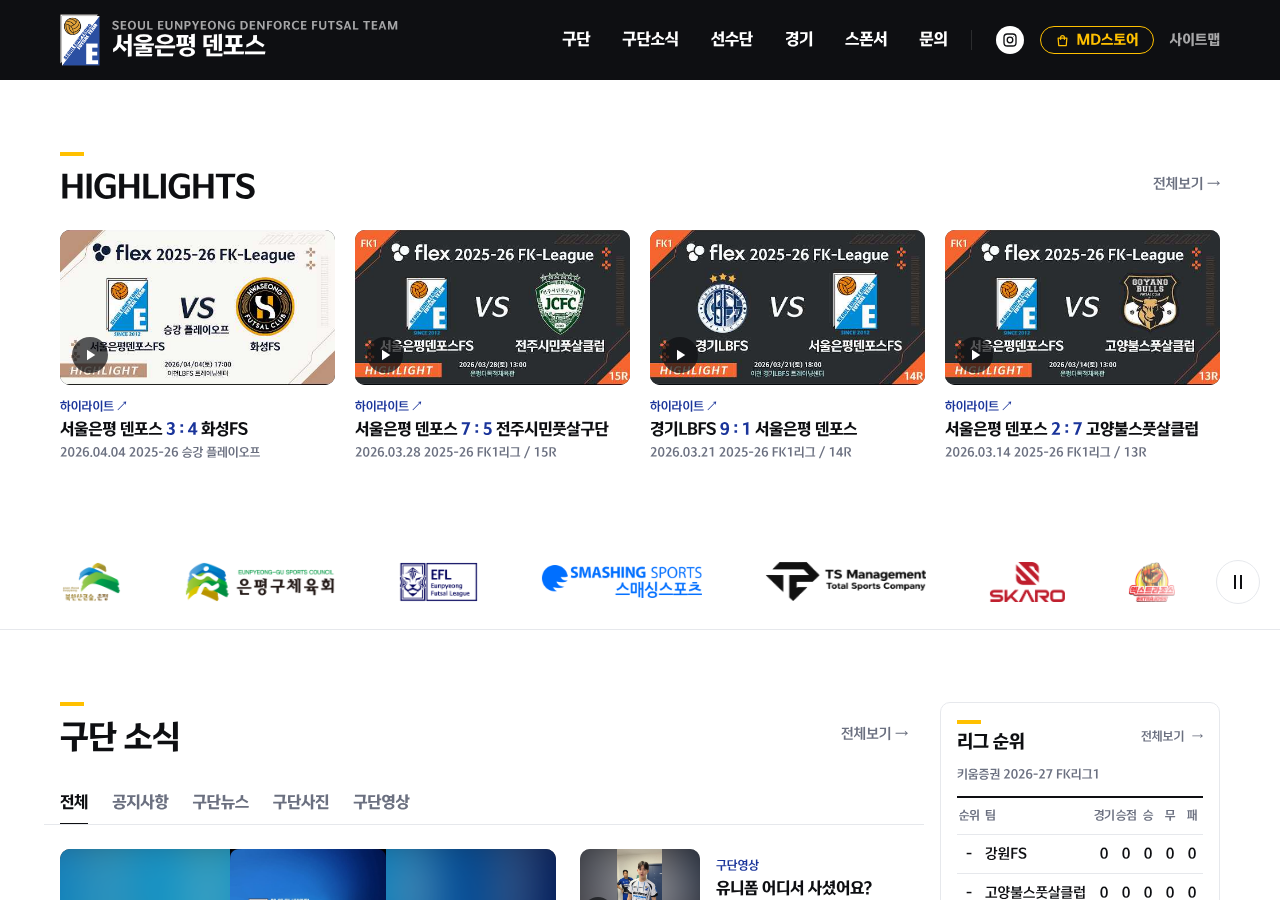
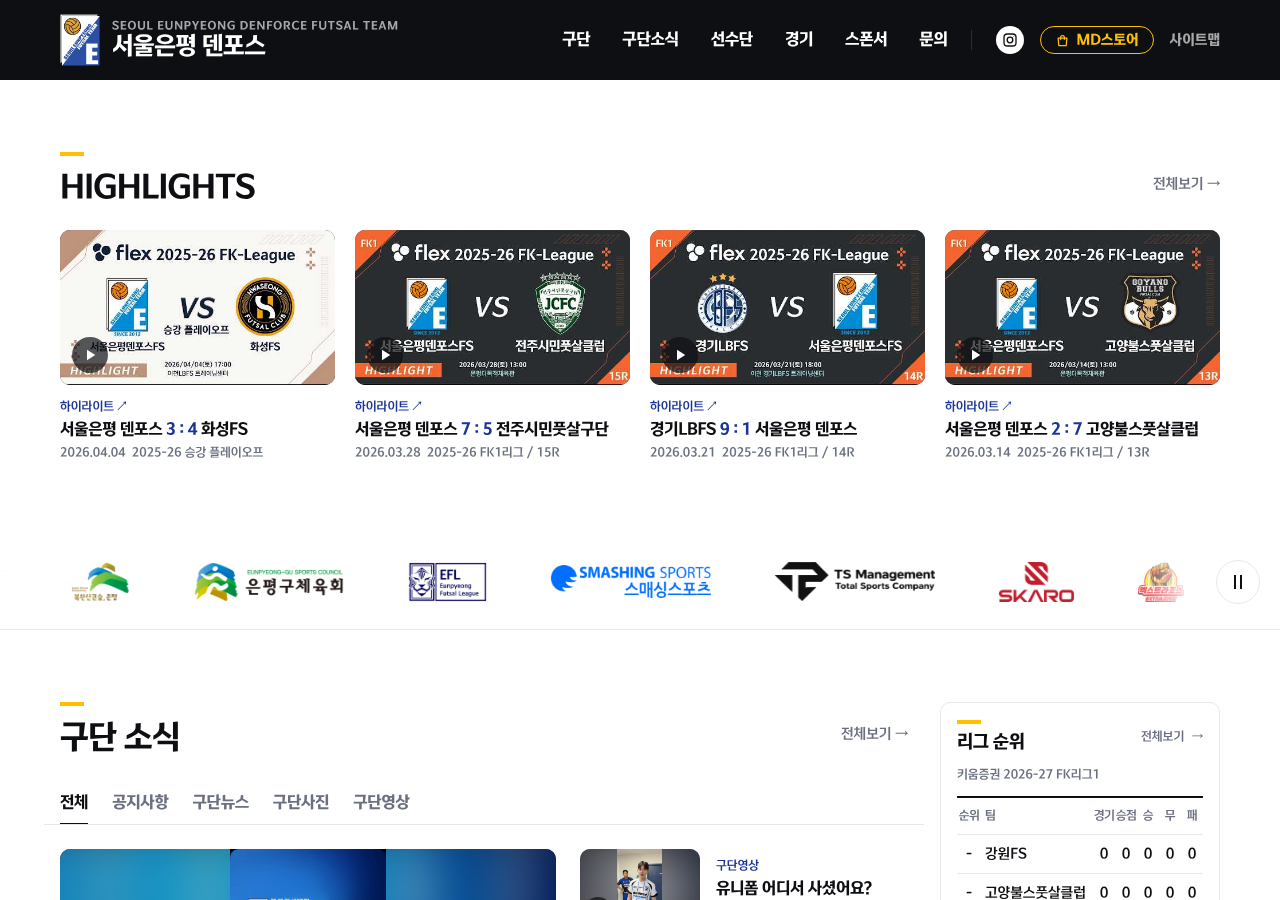
경기 영상 수치표 맞춤: 휴대폰 띠 라벨 옆 LIVE, 하이라이트 제목 2줄, 날짜와 대회 사이 공백 2칸 (D-091, D-092)
Claude-Session: https://claude.ai/code/session_015na33bHmUEDGFhNLp3LnQp

diff --git a/sites/eunpyeong-denforce/src/components/home/NextMatchHero.tsx b/sites/eunpyeong-denforce/src/components/home/NextMatchHero.tsx
@@ -103,8 +103,12 @@ function PhoneStrip({ match, ourName, textured, style }: Props) {
   return (
     <section className={styles.stripWrap} data-surface="dark" aria-labelledby="next-home-match-strip">
       <LiveLink window={live} href="/match/schedule" className={`${styles.card} ${styles.strip} ${textured ? styles.textured : ""}`} style={style}>
-        <span id="next-home-match-strip" role="heading" aria-level={2} className={styles.label}>
-          NEXT HOME MATCH
+        {/* 라벨 오른쪽 LIVE (D-092 L4 (가), 높이 그대로) */}
+        <span className={styles.labelRow}>
+          <span id="next-home-match-strip" role="heading" aria-level={2} className={styles.label}>
+            NEXT HOME MATCH
+          </span>
+          <LiveBadge window={live} />
         </span>
         <CompetitionTag text={matchLabel(match)} surface="dark" />
         <span className={styles.stripTeams}>

diff --git a/sites/eunpyeong-denforce/src/components/news/HighlightCard.tsx b/sites/eunpyeong-denforce/src/components/news/HighlightCard.tsx
@@ -39,7 +39,10 @@ export function HighlightCard({ item }: { item: HighlightItem }) {
           {item.away}
         </strong>
         <span className={styles.meta}>
-          {item.date} {item.competition}
+          {/* 날짜 + 공백 2칸 + 대회/라운드 (디자인 수치표 2ad2066) */}
+          {item.date}
+          {"\u00a0\u00a0"}
+          {item.competition}
         </span>
       </span>
     </a>

diff --git a/sites/eunpyeong-denforce/src/components/news/HighlightCard.module.css b/sites/eunpyeong-denforce/src/components/news/HighlightCard.module.css
@@ -61,6 +61,11 @@
   letter-spacing: -0.02em;
   word-break: keep-all;
   overflow-wrap: anywhere;
+  /* 2줄까지 */
+  display: -webkit-box;
+  -webkit-line-clamp: 2;
+  -webkit-box-orient: vertical;
+  overflow: hidden;
 }
 
 .score {

diff --git a/sites/eunpyeong-denforce/docs/FIGMA_SYNC.md b/sites/eunpyeong-denforce/docs/FIGMA_SYNC.md
@@ -586,3 +586,5 @@
 - 2026-11-14 디자인: tender-keller 병합(진행 기록 충돌 양쪽 유지). 총괄 요청(소유자 "1~3 다 해줘") ② 은평 하이라이트 모아 보기 + ③ 경기 당일 생중계 보기 시안. 새 섹션 283:27104(제목 287:29208 / 287:29210, 설명 287:29209 / 287:29211). ② HighlightCard: 구단영상 VideoCard 짜임 그대로 썸네일만 16:9(radius/m, PlayMark 36 왼쪽 아래 12) + 분류 '하이라이트 ↗' + 제목(대진, 스코어만 color/blue) + 날짜와 대회, 카드 전체 유튜브 새 창, 최신순 4칸(PC 285 사이 space/ml, 휴대폰 280 가로 넘김 사이 space/s). 위치 3안: 안1 구단영상 맨 위 '경기 하이라이트' PC 283:27105 / 휴대폰 283:27295, 안3 경기결과 맨 위 PC 283:27457 / 휴대폰 283:27651, 안2 홈 경기 띠 바로 아래 'HIGHLIGHTS'(인스타 칸과 같은 머리, 오른쪽 전체보기 →) PC 284:28825 / 휴대폰 284:29003. 썸네일은 시안에서 구단 사진으로 대신함. ③ LIVE 배지(color/yellow + 검정 점 6 + LIVE kfa/label black, radius/pill, 깜빡임 없음) + '생중계 보기 ↗'(놓인 곳의 기존 영상 버튼 모양, 44, 새 창): L1 홈 경기 띠 PC 285:29009 / 휴대폰 285:29171(다음 경기 칸), L3 다음 홈경기 카드 PC 285:29280(라벨 옆 LIVE, 버튼 아래 경기일정 버튼 모양 한 줄, 카드 368 → 424), L4 휴대폰 띠 (가) 285:29363 LIVE 시간에 띠 전체 링크를 생중계 새 창으로 바꾸고 → 를 ↗(높이 그대로, 문구 위 끝 y 288) / (나) 285:29413 띠는 경기일정 링크 그대로 + 아래 형제 버튼(+52, 문구 위 끝 y 236), L2 경기일정 표 PC 285:29461(일시 칸 LIVE, 결과 칸 버튼) / 휴대폰 285:29545(일시 칸 LIVE, 장소 아래 버튼). 표시 시간 제안: 킥오프 2시간 전부터 결과 입력 전까지, 늦어도 킥오프 4시간 뒤에는 끔, replay_url 없으면 숨김. 빨강 토큰(c-loss)은 '패' 뜻이라 LIVE 에 쓰지 않음. 캡처 docs/figma-captures/match-video/(highlights-compare-pc, highlights-compare-390, live-pc, live-390). 감사: 새 부품 맨 색 0, 스타일 없는 글자 0, 가운뎃점 0.
 - 2026-11-14 기능: ② 하이라이트 모아 보기(D-091) — HighlightCard, 홈 HIGHLIGHTS 4개(관리자 제목 칸), 구단영상 맨 위 전부, 썸네일 i.ytimg.com 원본. ③ 경기 당일 LIVE(D-092) — LiveBadge / 생중계 보기, L1~L4, 시각은 브라우저에서. 캡처 match-video/code-*.png. 22페이지 x 12폭 ALL CLEAN.
 - 2026-11-14 기능: D-090 검토 반영 — FK CUP '|' 제목, (날짜) 뒤 단계 꼬리, 관리자가 비운 칸 다시 안 채움(kfl_video_sync_applied), 깨진 참조 항목만 버림, 헤더 모양 먼저 거절, 별칭 정규화. 테스트 13개.
+- 2026-11-14 디자인: 소유자 '추천대로' 경기 영상 확정. 피그마 이름에 [확정 2026-11-14](H1, H2, L1, L2, L3, L4 가) / [보관: 선택 안 됨](H3, L4 나). H2 휴대폰(284:29003)과 L1 휴대폰을 운영 홈 구조로 고침: 예전 '경기' 제목 줄 + '전체 일정 →' 이 있던 MatchStrip 을 제목 줄 없는 확정 띠(200:21621, D-085)로 바꿈, L1 휴대폰은 새 노드 289:29275(예전 285:29171 지움). PC 두 프레임은 이미 제목 줄 없는 띠(247:3440)라 그대로. 부품 지도에 '경기 영상' 수치표(HighlightCard, LIVE 배지, 생중계 버튼, 놓는 자리, 표시 시간).
+- 2026-11-14 기능: ②③ 수치표(2ad2066) 맞춤 — 휴대폰 띠 라벨 옆 LIVE(154 그대로), 하이라이트 제목 2줄, 날짜 + 공백 2칸 + 대회. 디자인 2ad2066 병합.

diff --git a/sites/eunpyeong-denforce/docs/DECISION_LOG.md b/sites/eunpyeong-denforce/docs/DECISION_LOG.md
@@ -35,6 +35,7 @@
 - **표시**: LiveBadge(color/yellow 면 + 검정 점 6 + LIVE kfa/label black, radius/pill, 깜빡임 없음 — 빨강은 '패' 뜻이라 안 씀). '생중계 보기 ↗' 는 놓인 곳의 영상 버튼 모양, 44, 새 창, 이름 '생중계 보기 - 날짜 홈 vs 원정 (새 창)'.
   - L1 홈 경기 띠: 라벨 옆 LIVE + 버튼(예정 칸). L2 경기일정 표: 일시 칸 아래 LIVE, 버튼은 PC 결과 칸('-' 대신) / 휴대폰 장소 줄 아래. L3 PC 다음 홈경기 카드: 라벨 옆 LIVE, 버튼 둘 아래 한 줄(폭 = 버튼 둘), 카드 368 → 424 — 721~1920 히어로 안(아래 16 / 32 남음). L4 휴대폰 띠 (가): LIVE 시간에 띠 전체 링크 → 생중계(새 창), → 를 ↗, 숨김 글자 ', 생중계 보기 (새 창)', 높이 154 그대로.
 - **캐시 판단**: 화면은 미리 만들어 캐시('use cache' + cacheLife minutes, 페이지 미리 렌더)라 서버에서 '지금'을 재면 몇 분~몇 시간 어긋날 수 있다 → 서버는 창(시작/끝/주소)만 넘기고, 브라우저(components/match/Live.tsx, useLive)가 붙은 뒤 시간을 재서 켠다/끈다(창 경계에 맞춰 다시 잼, 최대 1분 간격). 시작/끝은 정확. 결과 입력(종료)은 데이터 캐시만큼(약 1~5분) 늦게 꺼질 수 있음 — 허용(4시간 상한이 있고 종료 직후 생중계 링크도 다시보기라 틀린 곳으로 보내지 않음). 처음 그림은 LIVE 없는 모양이라 그 순간 깜빡 바뀔 수 있음.
+- **디자인 수치표(2ad2066) 맞춤**: 휴대폰 띠도 라벨 오른쪽 LIVE(높이 154 그대로, 링크 이름에 'LIVE' 포함), 하이라이트 제목 2줄까지, 날짜와 대회 사이 공백 2칸. H2 '전체보기' 는 /news/video#highlights(총괄 지시, 칸이 맨 위라 결과는 같음).
 - **확인**: 테스트(-3h / -2h / 경기 중 / +4h 직전 / +4h / 종료 / 주소 없음). 화면 시계 바꿔(Playwright clock) 실데이터 1R(2026-11-15 14:00, 생중계 주소 있음): -3h 없음, -2h / 경기 중 L1 L2 표시, +4h 없음. L3 L4 는 로컬 가짜 Supabase 로 4R 에 주소를 넣어 같은 시간표로 확인(운영 쓰기 없음).
 
 ## D-091 | 2026-11-14 | 은평 경기 하이라이트 모아 보기: 홈 경기 띠 아래 HIGHLIGHTS 4개 + 구단영상 맨 위 '경기 하이라이트' 전부
